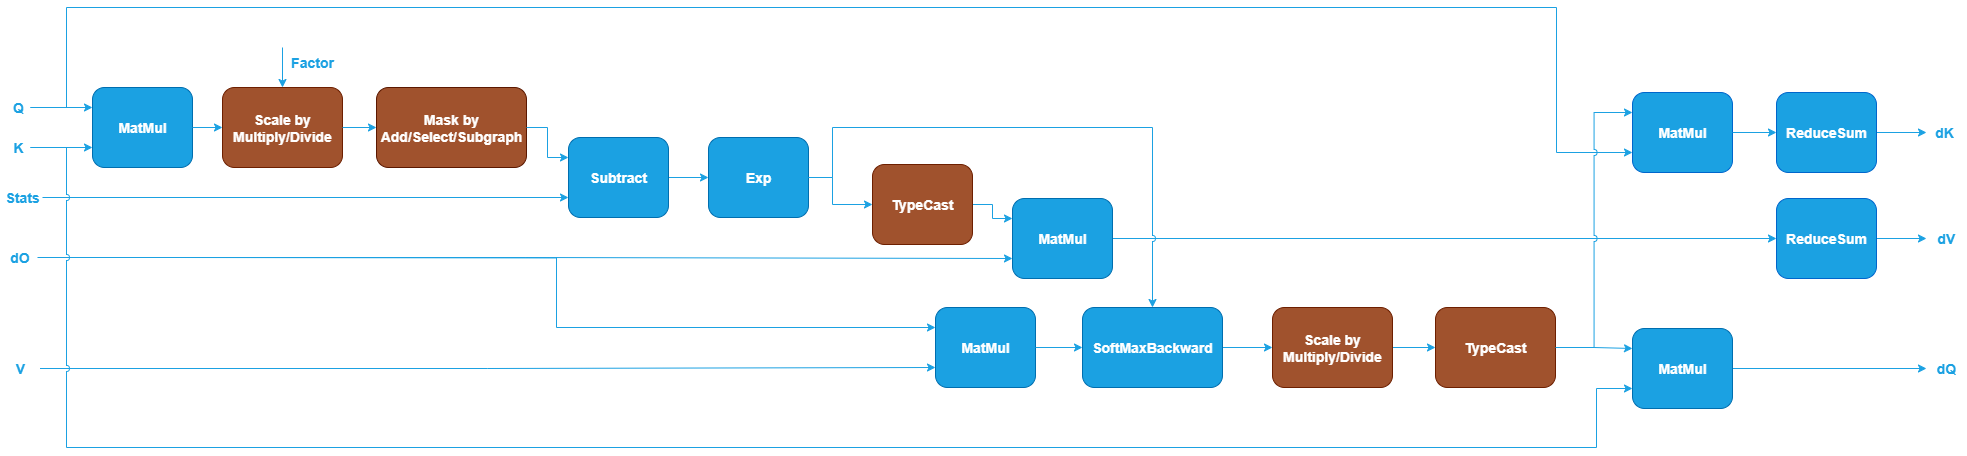
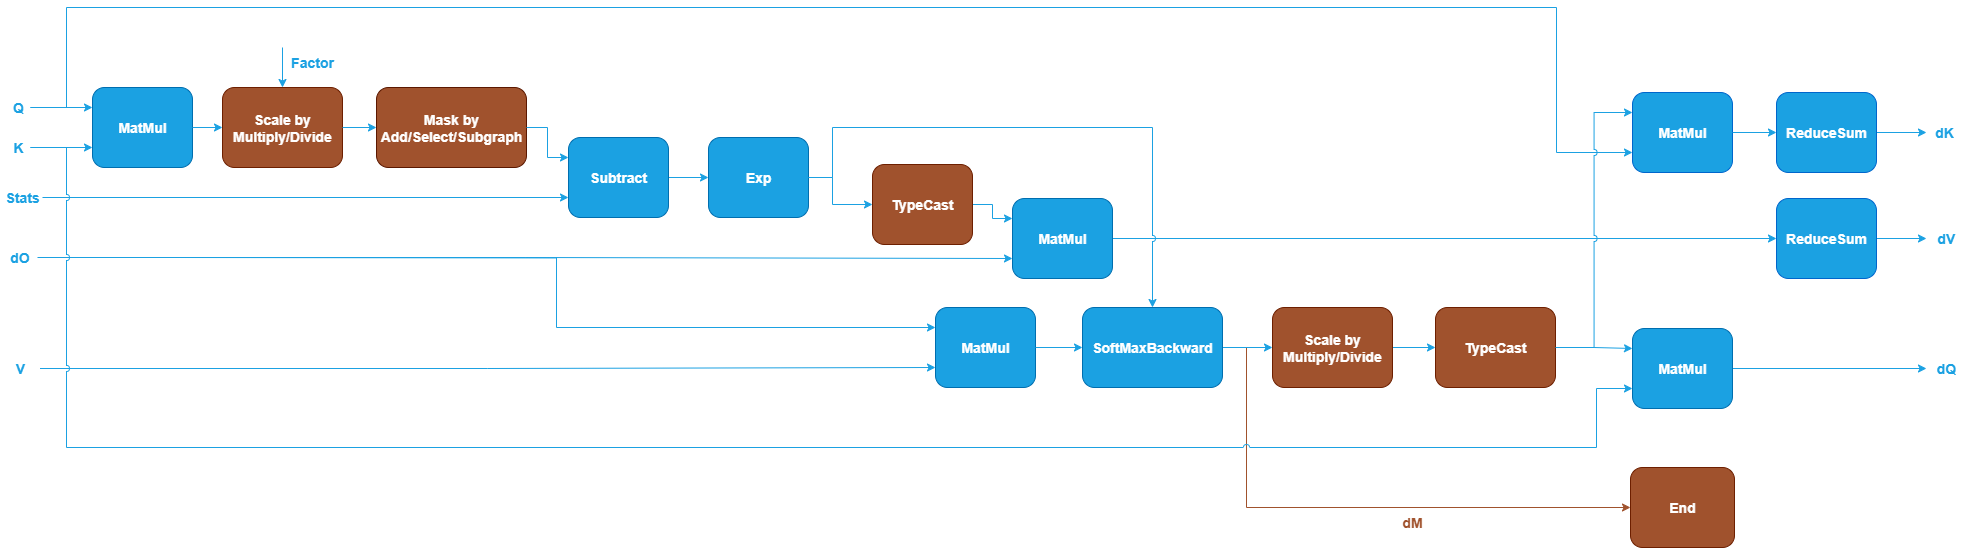
doc: graph: add patterns for sdpa/gqa training backward
w.r.t. gradients for mask

diff --git a/doc/graph/fusion_patterns/gqa.md b/doc/graph/fusion_patterns/gqa.md
@@ -134,6 +134,11 @@ The blue nodes are required while the brown nodes are optional.
    compute the gradients with respect to Query and Key, respectively. TypeCast
    is required for bf16 and f16 training scenarios. ReduceSum reduces the Key
    gradients from (N, H_kv, N_rep, S, D) to (N, H_kv, 1, S, D).
+10. The optional End operation marks the output of SoftMaxBackward as a
+    partition output, representing the gradients with respect to the Mask. Note
+    that the output shape of `dM` is (N, H_kv, N_rep, S, S) and the data
+    type is f32. The library does not perform any reduction or typecast on this
+    output (for example, reducing to (1, 1, 1, S, S), casting to f16).
 
 ## Data Types
 

diff --git a/doc/graph/fusion_patterns/sdpa.md b/doc/graph/fusion_patterns/sdpa.md
@@ -136,6 +136,11 @@ are optional.
 9. The TypeCast and two MatMul operations after the Scale node compute the
    gradients with respect to Query and Key, respectively. TypeCast is required
    for bf16 and f16 training scenarios.
+10. The optional End operation marks the output of SoftMaxBackward as a
+    partition output, representing the gradients with respect to the Mask. Note
+    that the output shape of `dM` is (N, H, S, S) and the data
+    type is f32. The library does not perform any reduction or typecast on this
+    output (for example, reducing to (1, 1, S, S), casting to f16).
 
 ## Data Types
 
